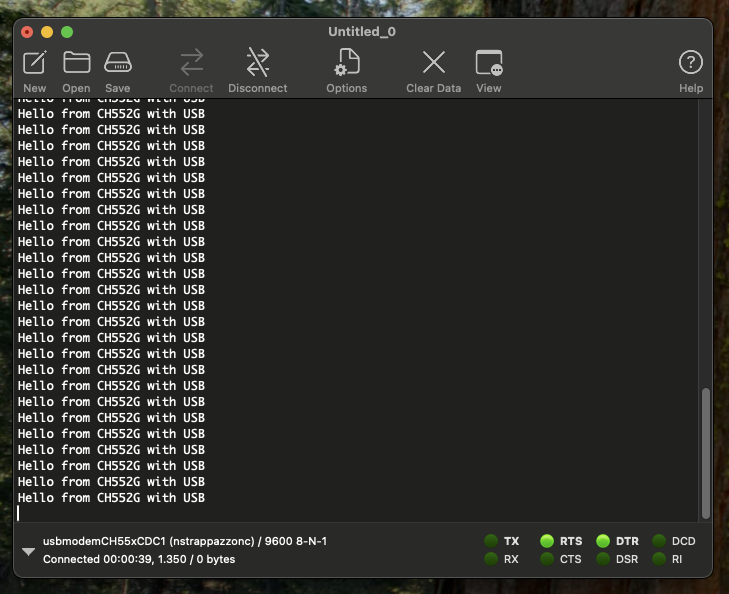
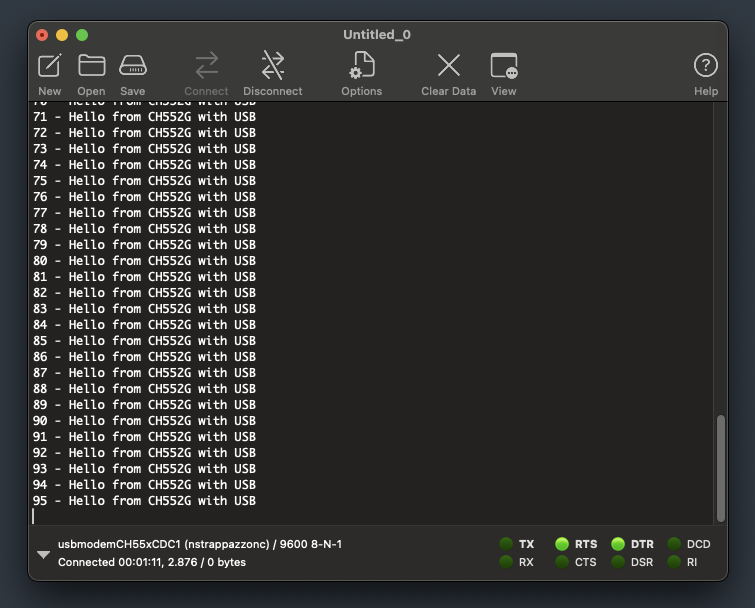
Save changes at: 1735078625

Changed region(s): [[0.0, 0.0, 1.0, 1.0]]

diff --git a/inc/eeprom.c b/inc/eeprom.c
@@ -1,34 +1,41 @@
+#include <stdint.h>
 #include "eeprom.h"
 #include <ch552.h>
 
-// Write single byte to data flash
-void EEPROM_write(uint8_t addr, uint8_t value) {
-  if(addr < 128) {                      // max addr
-    SAFE_MOD    = 0x55;
-    SAFE_MOD    = 0xAA;                 // enter safe mode
-    GLOBAL_CFG |= bDATA_WE;             // enable data flash write
-    SAFE_MOD    = 0;                    // exit safe mode
-    ROM_ADDR_H  = DATA_FLASH_ADDR >> 8; // set address high byte
-    ROM_ADDR_L  = addr << 1;            // set address low byte (must be even)
-    ROM_DATA_L  = value;                // set value
-    if(ROM_STATUS & bROM_ADDR_OK)       // valid access address?
-      ROM_CTRL  = ROM_CMD_WRITE;        // write value to data flash
-    SAFE_MOD    = 0x55;
-    SAFE_MOD    = 0xAA;                 // enter safe mode
-    GLOBAL_CFG &= ~bDATA_WE;            // disable data flash write
-    SAFE_MOD    = 0;                    // exit safe mode
-  }
+uint8_t WriteDataFlash(uint8_t addr, unsigned char *buf, uint8_t len)
+{
+    uint8_t i;
+    SAFE_MOD = 0x55;
+    SAFE_MOD = 0xAA;                                                           //进入安全模式
+    GLOBAL_CFG |= bDATA_WE;                                                    //使能DataFlash写
+    SAFE_MOD = 0;                                                              //退出安全模式 
+    ROM_ADDR_H = DATA_FLASH_ADDR >> 8;
+    addr <<= 1;
+    for(i=0;i<len;i++)
+    {
+      ROM_ADDR_L = addr + i*2;
+      ROM_DATA_L = *(buf+i);      
+      if ( ROM_STATUS & bROM_ADDR_OK ) {                                     // 操作地址有效
+        ROM_CTRL = ROM_CMD_WRITE;                                           // 写入
+      }
+      if((ROM_STATUS ^ bROM_ADDR_OK) > 0) return i;                          // 返回状态,0x00=success,  0x02=unknown command(bROM_CMD_ERR)
+    }
+    SAFE_MOD = 0x55;
+    SAFE_MOD = 0xAA;                                                           //进入安全模式
+    GLOBAL_CFG &= ~bDATA_WE;                                                   //开启DataFlash写保护
+    SAFE_MOD = 0;                                                              //退出安全模式 
+    return i;   
 }
 
-// Read single byte from data flash
-uint8_t EEPROM_read(uint8_t addr) {
-  ROM_ADDR_H = DATA_FLASH_ADDR >> 8;    // set address high byte
-  ROM_ADDR_L = addr << 1;               // set address low byte (must be even)
-  ROM_CTRL   = ROM_CMD_READ;            // read value from data flash
-  return ROM_DATA_L;                    // return value
-}
-
-// Write single byte to data flash if changed (this reduces write cycles)
-void EEPROM_update(uint8_t addr, uint8_t value) {
-  if(EEPROM_read(addr) != value) EEPROM_write(addr, value);
+uint8_t ReadDataFlash(uint8_t addr, uint8_t len, unsigned char *buf)
+{
+    uint8_t i;
+    ROM_ADDR_H = DATA_FLASH_ADDR >> 8;
+    addr <<= 1;
+    for(i=0;i<len;i++){
+      ROM_ADDR_L = addr + i*2;                                                   //Addr必须为偶地址
+      ROM_CTRL = ROM_CMD_READ;
+      *(buf+i) = ROM_DATA_L;
+    }
+    return i;
 }

diff --git a/inc/eeprom.h b/inc/eeprom.h
@@ -1,5 +1,4 @@
 #include <stdint.h>
 
-uint8_t EEPROM_read(uint8_t addr);                // Read single byte from data flash.
-void EEPROM_write(uint8_t addr, uint8_t value);   // Write single byte to data flash.
-void EEPROM_update(uint8_t addr, uint8_t value);  // Write if changed (reduces write cycles).
+uint8_t WriteDataFlash(uint8_t addr, unsigned char *buf, uint8_t len);
+uint8_t ReadDataFlash(uint8_t addr, uint8_t len, unsigned char *buf);

diff --git a/src/eeprom/main.c b/src/eeprom/main.c
@@ -1,11 +1,19 @@
+#include "stdio.h"
 #include <ch552.h>
-#include <utils.h>
 #include <eeprom.h>
+#include <string.h>
+#include <utils.h>
 
 void main(void) {
+    uint8_t i,m,len;
+
     init();
 
     while(1) {
-        delay(10);
+        for(int i=0;i<128;i++){
+            len = WriteDataFlash(i,&i,1);
+
+            delay(1000);
+        }
     }
 }

diff --git a/src/usb/cdc/tx/main.c b/src/usb/cdc/tx/main.c
@@ -14,8 +14,13 @@ void main(void) {
   init();
   USBInit();
 
+  int counter = 0;
+  char buffer[32];
+
   while(1){
-    USBWriteString("Hello from CH552G with USB\n");
+    sprintf(buffer, "%d - Hello from CH552G with USB\n", counter++);
+
+    USBWriteString(buffer);
     delay(1000);
   }
 }

diff --git a/doc/links.md b/doc/links.md
@@ -26,6 +26,7 @@ https://github.com/pfalcon-mirrors/sdcc
 https://github.com/platunus/wch/tree/master
 https://github.com/rgwan/librech551/tree/master
 https://github.com/semickolon/fak/tree/main
+https://github.com/SoCXin/CH552/blob/master/src/examples/DataFlash/Main.C
 https://github.com/SoCXin/CH552/tree/master
 https://github.com/wagiminator/CH552-MouseWiggler
 https://github.com/wagiminator/CH552-USB-Knob
